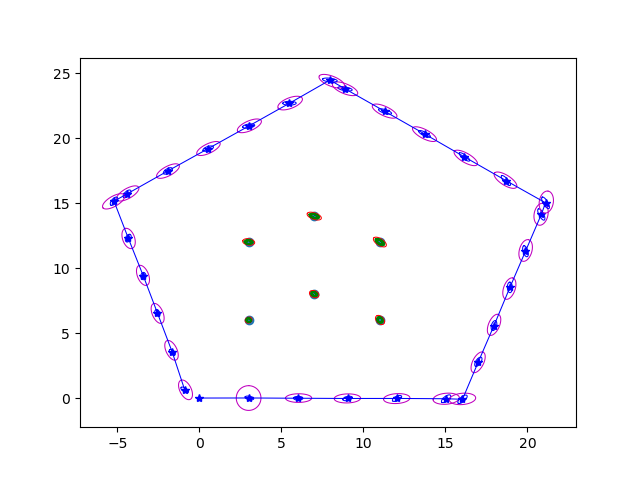
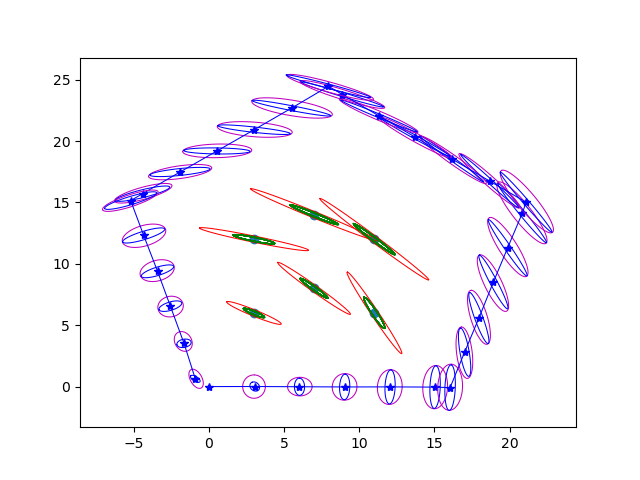
Final submit

diff --git a/16833_HW2_EKF_Starter_Code/code/ekf_slam.py b/16833_HW2_EKF_Starter_Code/code/ekf_slam.py
@@ -104,7 +104,7 @@ def init_landmarks(init_measure, init_measure_cov, init_pose, init_pose_cov):
     \return landmarks Numpy array of shape (2k, 1) for the state.
     \return landmarks_cov Numpy array of shape (2k, 2k) for the uncertainty.
     '''
-
+    # print(init_measure)
     k = init_measure.shape[0] // 2
 
     landmark = np.zeros((2 * k, 1))
@@ -116,13 +116,27 @@ def init_landmarks(init_measure, init_measure_cov, init_pose, init_pose_cov):
         # Get landmark state in world frame
         landmark[2*i] = init_pose[0] + r * np.cos(init_pose[2] + beta)
         landmark[2*i+1] = init_pose[1] + r * np.sin(init_pose[2] + beta)
+        theta = init_pose[2][0]
+        r = r[0]
+        beta = beta[0]
 
         # Update covraince
-        H = np.array([[-r * np.sin(init_pose[2] + beta), np.cos(init_pose[2] + beta)],
-                       [r * np.cos(init_pose[2] + beta), np.sin(init_pose[2] + beta)]])
-        H = H[:, :, 0]
-        landmark_cov[2*i : 2*i+2, 2*i : 2*i+2] = H @ init_measure_cov @ H.T
-
+        # H = np.array([[-r * np.sin(init_pose[2] + beta), np.cos(init_pose[2] + beta)],
+        #                [r * np.cos(init_pose[2] + beta), np.sin(init_pose[2] + beta)]])
+        # H = H[:, :, 0]
+        # print(init_pose)
+        # print(init_pose[2])
+        # print(theta)
+        # print(beta)
+        # print(r)
+        # print(-r * np.sin(theta + beta))
+        J = np.array([[1, 0, -r * np.sin(theta + beta), -r * np.sin(theta + beta), np.cos(theta + beta)],
+                      [0, 1, r * np.cos(theta + beta), r * np.cos(theta + beta), np.sin(theta + beta)]])
+        
+        # landmark_cov[2*i : 2*i+2, 2*i : 2*i+2] = H @ init_measure_cov @ H.T
+        landmark_cov[2*i : 2*i+2, 2*i : 2*i+2] = J @ \
+            (np.block([[init_pose_cov, np.zeros((3, 2 ))], [np.zeros((2, 3)), init_measure_cov]]) )\
+            @ J.T
 
     return k, landmark, landmark_cov
 
@@ -139,9 +153,13 @@ def predict(X, P, control, control_cov, k):
     \return X_pre Predicted X state of shape (3 + 2k, 1).
     \return P_pre Predicted P covariance of shape (3 + 2k, 3 + 2k).
     '''
-    d_t, alpha_t = control
+    
     # p_t = X[: 3]    # x_t, y_t, theta_t
     x, y, theta = X[0], X[1], X[2]
+    theta = theta[0]
+    d_t, alpha_t = control
+    d_t = d_t[0]
+    alpha_t  = alpha_t[0]
 
     # Prediction of pose at time t+1 only with control input
     X_input = np.zeros((3 + 2*k, 1))
@@ -150,20 +168,25 @@ def predict(X, P, control, control_cov, k):
     X_input[2] = alpha_t
     X_pre = X + X_input
 
-    # Compute uncertainty matrix
-    B = np.array([[np.cos(theta), -np.sin(theta), 0],
-                [np.sin(theta),  np.cos(theta), 0],
-                [0,0,1]])
-    
-    R = B @ control_cov @ B.T
+    d_t, alpha_t = control
+    d_t = d_t[0]
+    alpha_t  = alpha_t[0]
 
-    G = np.array([[1, 0, -d_t * np.sin(theta)],
+
+    B = np.array([[np.cos(theta), -np.sin(theta), 0],
+                   [np.sin(theta), np.cos(theta), 0], 
+                   [0, 0, 1]])
+    R = np.zeros((3 + 2*k, 3 + 2*k))
+    R[0:3 , 0:3] = B @ control_cov @ B.T
+
+    G = np.eye(3 + 2*k)
+    G[0:3, 0:3] = np.array([[1, 0, -d_t * np.sin(theta)],
                    [0, 1, d_t * np.cos(theta)],
                    [0, 0, 1]])
-    P_pre = P
-    P_pre[:3,:3] = G @ P[:3,:3] @ G.T + R
-    # print(X_pre)
+    
+    P_pre = G @ P @ G.T + R
 
+    
     return X_pre, P_pre
 
 
@@ -188,6 +211,8 @@ def update(X_pre, P_pre, measure, measure_cov, k):
     for i in range(k):
         dx = X_pre[3 + 2*i] - X_pre[0]          # lx - x
         dy = X_pre[3 + 2*i + 1] - X_pre[1]      # ly - y
+        dx = dx[0]
+        dy = dy[0]
         eta = dx**2 + dy**2
         eta_sqrt = np.sqrt(eta)
 
@@ -206,7 +231,7 @@ def update(X_pre, P_pre, measure, measure_cov, k):
         # Jacobian to landmark
         Hl = np.array([[-dy/eta, dx/eta],
                        [dx/eta_sqrt, dy/eta_sqrt]])
-        H[i*2 : i*2+2, 3+i*2 : 3+i*2+2] = Hl[:, :, 0]
+        H[i*2 : i*2+2, 3+i*2 : 3+i*2+2] = Hl[:, :]
     
     # Kalman Gain
     K = P_pre @ H.T @ np.linalg.inv(H @ P_pre @ H.T + R)
@@ -247,6 +272,7 @@ def evaluate(X, P, k):
     for i in range(k):
         P_landmark = P[3 + 2*i:3 + 2*i+2, 3 + 2*i:3 + 2*i+2]
         mahalanobis_dist[i] = np.sqrt((x_true[i] - x_est[i]).T @ np.linalg.inv(P_landmark) @ (x_true[i] - x_est[i]))
+
         print(f'Mahalanobis distance for landmark {i+1}: {mahalanobis_dist[i]}')
 
 
@@ -332,6 +358,7 @@ def main():
             draw_traj_and_map(X, last_X, P, t)
             last_X = X
             t += 1
+            # print(P)
 
     # EVAL: Plot ground truth landmarks and analyze distances
     evaluate(X, P, k)
